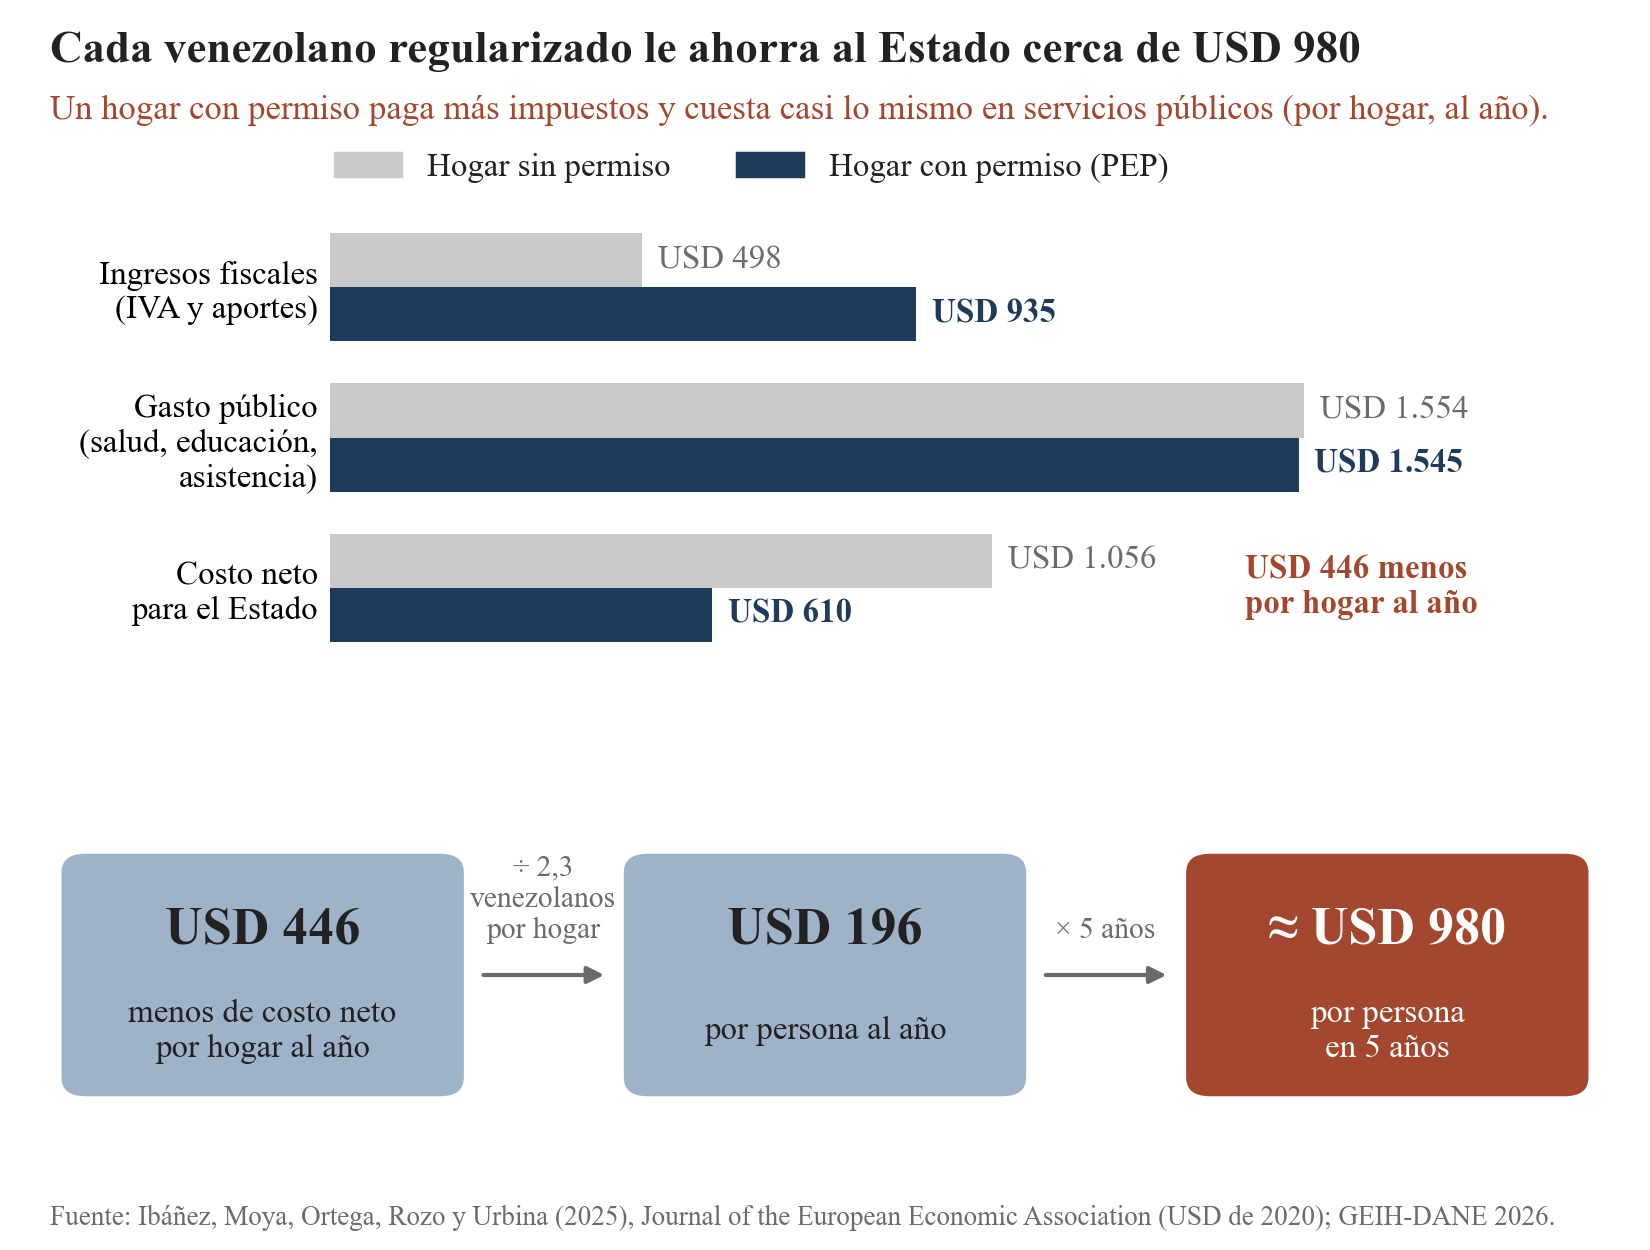
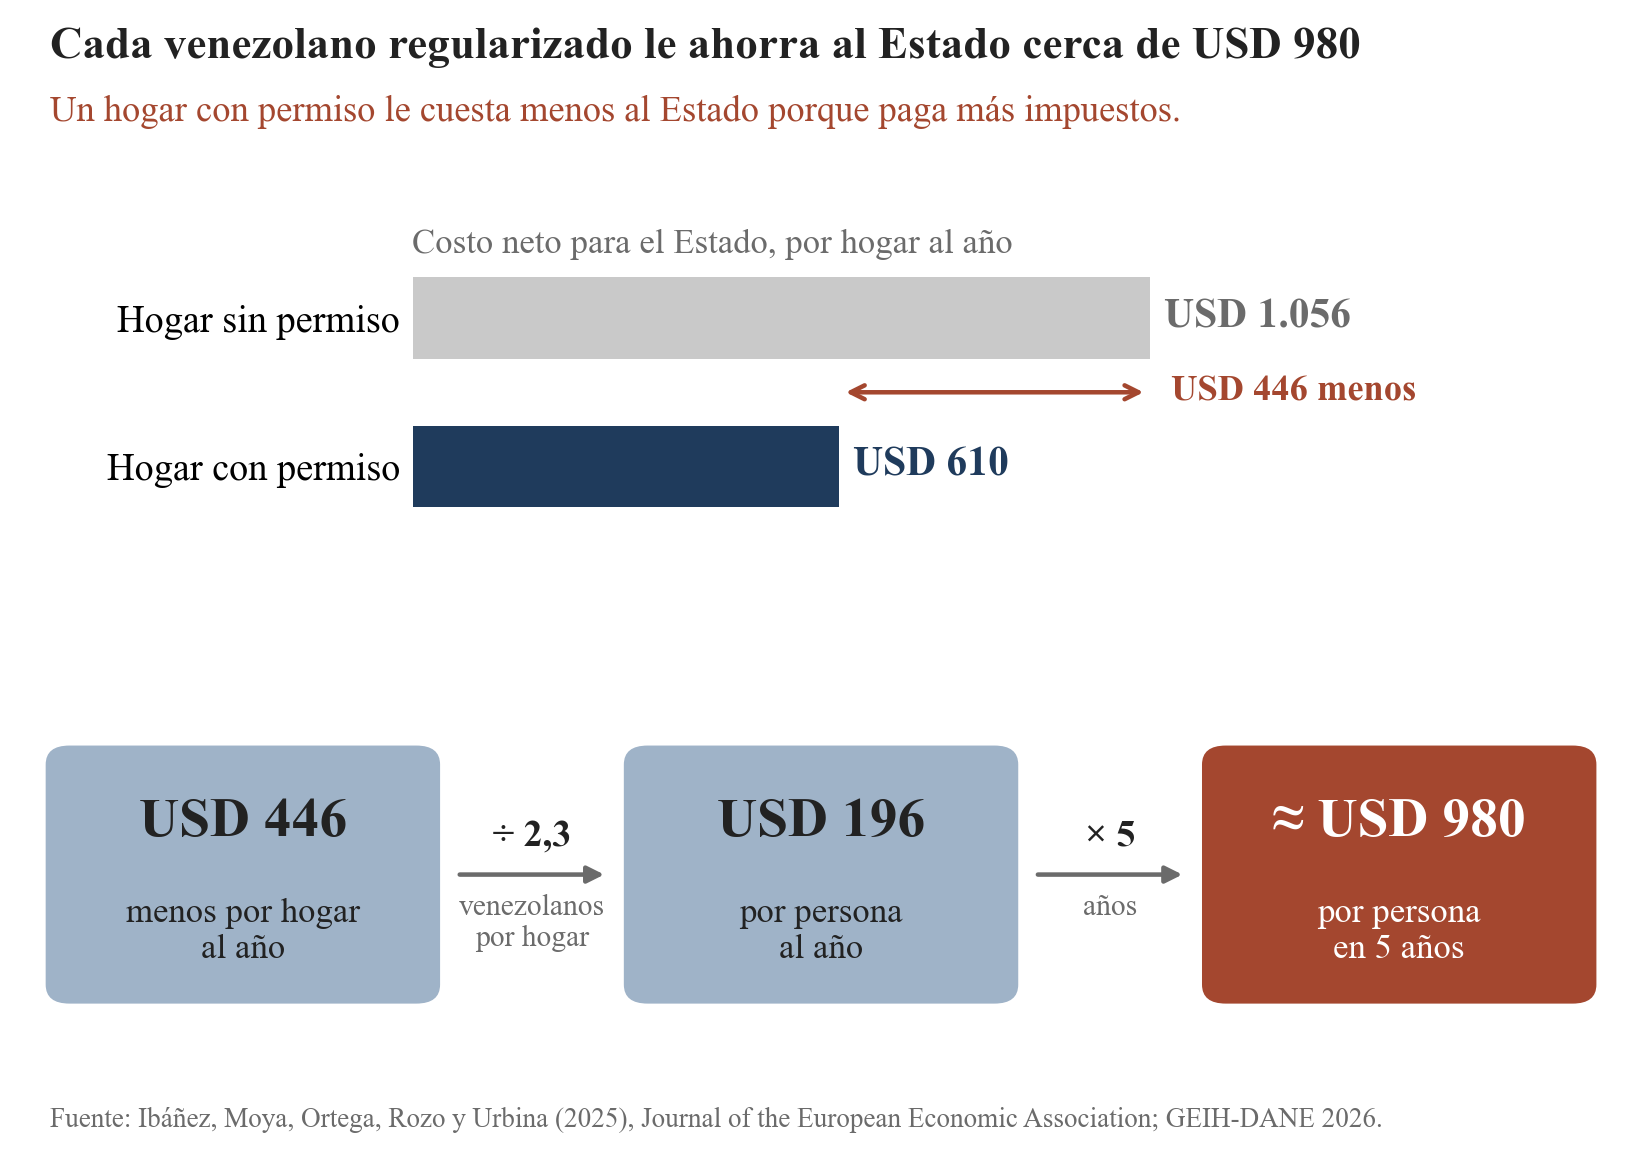
Graficos de beneficio: version simplificada (codigo y figuras)

diff --git a/Code/21_graficos_beneficio.py b/Code/21_graficos_beneficio.py
@@ -1,9 +1,8 @@
-"""Visa-R / 21: beneficio fiscal de mantener la regularidad (de dónde salen los USD 980 por persona) y beneficio total según la tarifa.
+"""Visa-R / 21: beneficio fiscal de mantener la regularidad (de dónde salen los USD 980 por persona) y comparación con la tarifa.
 Fuente del beneficio: Ibáñez, Moya, Ortega, Rozo y Urbina (2025), JEEA 23(3), sección 7 y cuadro 7 (USD de 2020, acceso observado a servicios):
   hogar migrante sin PEP: ingresos fiscales 498, gasto público 1.554, costo neto 1.056; hogar con PEP: ingresos 935, gasto 1.545, costo neto 610.
-Venezolanos por hogar: 2,28 (GEIH 2026). Conversión a la Visa R: modelo ilustrativo de Code/10 (theta = 2): 43,6 % con USD 464 y 85 % con tarifa cero.
-Escala: 1.975.752 PPT autorizados (Migración Colombia, octubre 2026).
-Salidas: Outputs/Figures/pr8a_como_se_calcula_beneficio.png, pr8b_beneficio_total.png"""
+Venezolanos por hogar: 2,28 (GEIH 2026).
+Salidas: Outputs/Figures/pr8a_como_se_calcula_beneficio.png, pr8b_ahorro_vs_tarifa.png"""
 from pathlib import Path
 import numpy as np
 import matplotlib
@@ -19,57 +18,54 @@ plt.rcParams.update({"font.family": "serif", "font.serif": ["Times New Roman", "
                      "axes.edgecolor": "#555555", "axes.linewidth": 0.6, "axes.spines.top": False, "axes.spines.right": False})
 miles = lambda x: f"{x:,.0f}".replace(",", ".")
 
-ING = (498, 935); GAS = (1554, 1545); NETO = (1056, 610)
-AHORRO = NETO[0] - NETO[1]; VEN_HOG = 2.28; ANUAL = AHORRO / VEN_HOG; S5 = ANUAL * 5
-N_PPT = 1_975_752; CONV = {"Tarifa actual" + NL + "(USD 464)": 0.43596, "Tarifa cero": 0.85}
+NETO = (1056, 610); AHORRO = NETO[0] - NETO[1]; VEN_HOG = 2.28; ANUAL = AHORRO / VEN_HOG; S5 = ANUAL * 5; FEE = 464
 
 # =============================================================== propuesta A: de dónde salen los USD 980
-fig = plt.figure(figsize=(6.6, 5.0))
+fig = plt.figure(figsize=(6.6, 4.6))
 fig.text(0.03, 0.95, "Cada venezolano regularizado le ahorra al Estado cerca de USD 980", fontsize=13, fontweight="bold", ha="left")
-fig.text(0.03, 0.905, "Un hogar con permiso paga más impuestos y cuesta casi lo mismo en servicios públicos (por hogar, al año).", fontsize=10, ha="left", color=ACC)
-ax = fig.add_axes([0.2, 0.47, 0.76, 0.36])
-grupos = ["Ingresos fiscales" + NL + "(IVA y aportes)", "Gasto público" + NL + "(salud, educación,\nasistencia)".replace("\n", NL), "Costo neto" + NL + "para el Estado"]
-vals = [ING, GAS, NETO]; y = np.arange(3)[::-1]; h = 0.36
-for yi, (a, b) in zip(y, vals):
-    ax.barh(yi + h / 2, a, h, color=LGRAY); ax.barh(yi - h / 2, b, h, color=NAVY)
-    ax.text(a + 25, yi + h / 2, f"USD {miles(a)}", va="center", fontsize=9.5, color=GRAY)
-    ax.text(b + 25, yi - h / 2, f"USD {miles(b)}", va="center", fontsize=9.5, color=NAVY, fontweight="bold")
-ax.set_yticks(y); ax.set_yticklabels(grupos, fontsize=9.5); ax.tick_params(axis="y", length=0); ax.spines["left"].set_visible(False)
-ax.set_xticks([]); ax.spines["bottom"].set_visible(False); ax.set_xlim(0, 2000)
-ax.legend(handles=[plt.Rectangle((0, 0), 1, 1, color=LGRAY), plt.Rectangle((0, 0), 1, 1, color=NAVY)],
-          labels=["Hogar sin permiso", "Hogar con permiso (PEP)"], loc="lower left", bbox_to_anchor=(-0.02, 1.0), ncol=2, frameon=False, fontsize=9.5)
-ax.text(1460, 0.0, f"USD {AHORRO} menos" + NL + "por hogar al año", fontsize=9.5, color=ACC, va="center", fontweight="bold")
+fig.text(0.03, 0.895, "Un hogar con permiso le cuesta menos al Estado porque paga más impuestos.", fontsize=10.5, ha="left", color=ACC)
+ax = fig.add_axes([0.25, 0.53, 0.72, 0.29])
+y = [1, 0]; cols = [LGRAY, NAVY]; labs = ["Hogar sin permiso", "Hogar con permiso"]
+ax.barh(y, NETO, 0.55, color=cols)
+for yi, v, c in zip(y, NETO, [GRAY, NAVY]):
+    ax.text(v + 20, yi, f"USD {miles(v)}", va="center", fontsize=12, fontweight="bold", color=c)
+ax.set_yticks(y); ax.set_yticklabels(labs, fontsize=11); ax.tick_params(axis="y", length=0); ax.spines["left"].set_visible(False)
+ax.set_xticks([]); ax.spines["bottom"].set_visible(False); ax.set_xlim(0, 1700); ax.set_ylim(-0.5, 1.75)
+ax.text(0, 1.5, "Costo neto para el Estado, por hogar al año", fontsize=10, color=GRAY, va="center")
+ax.annotate("", xy=(NETO[1], 0.5), xytext=(NETO[0], 0.5), arrowprops=dict(arrowstyle="<->", color=ACC, lw=1.3))
+ax.text(NETO[0] + 30, 0.5, f"USD {AHORRO} menos", ha="left", va="center", fontsize=10.5, color=ACC, fontweight="bold")
 
-bx = fig.add_axes([0.02, 0.07, 0.96, 0.3]); bx.axis("off"); bx.set_xlim(0, 10); bx.set_ylim(0, 3)
-pasos = [(f"USD {AHORRO}", "menos de costo neto" + NL + "por hogar al año", LNAVY, INK),
-         (f"USD {ANUAL:.0f}", "por persona al año", LNAVY, INK),
+bx = fig.add_axes([0.02, 0.08, 0.96, 0.33]); bx.axis("off"); bx.set_xlim(0, 10); bx.set_ylim(0, 3)
+pasos = [(f"USD {AHORRO}", "menos por hogar" + NL + "al año", LNAVY, INK),
+         (f"USD {ANUAL:.0f}", "por persona" + NL + "al año", LNAVY, INK),
          (f"≈ USD {round(S5, -1):.0f}", "por persona" + NL + "en 5 años", ACC, "white")]
-ops = [f"÷ {VEN_HOG:.1f}".replace(".", ",") + NL + "venezolanos" + NL + "por hogar", "× 5 años"]
-xs = [0.2, 3.75, 7.3]; w = 2.5
+ops = [("÷ 2,3", "venezolanos" + NL + "por hogar"), ("× 5", "años")]
+xs = [0.1, 3.75, 7.4]; w = 2.45
 for (big, small, fc, tc), x0 in zip(pasos, xs):
-    bx.add_patch(FancyBboxPatch((x0, 0.55), w, 1.9, boxstyle="round,pad=0.02,rounding_size=0.15", fc=fc, ec="none"))
-    bx.text(x0 + w / 2, 1.85, big, ha="center", va="center", fontsize=15, fontweight="bold", color=tc)
-    bx.text(x0 + w / 2, 1.05, small, ha="center", va="center", fontsize=9.5, color=tc)
+    bx.add_patch(FancyBboxPatch((x0, 0.45), w, 2.0, boxstyle="round,pad=0.02,rounding_size=0.15", fc=fc, ec="none"))
+    bx.text(x0 + w / 2, 1.85, big, ha="center", va="center", fontsize=16, fontweight="bold", color=tc)
+    bx.text(x0 + w / 2, 1.0, small, ha="center", va="center", fontsize=10, color=tc)
 for x0, op in zip(xs[:2], ops):
-    bx.annotate("", xy=(x0 + w + 0.95, 1.5), xytext=(x0 + w + 0.1, 1.5), arrowprops=dict(arrowstyle="-|>", color=GRAY, lw=1.2))
-    bx.text(x0 + w + 0.52, 1.75, op, ha="center", va="bottom", fontsize=8.5, color=GRAY)
-fig.text(0.03, 0.02, "Fuente: Ibáñez, Moya, Ortega, Rozo y Urbina (2025), Journal of the European Economic Association (USD de 2020); GEIH-DANE 2026.",
+    bx.annotate("", xy=(x0 + w + 1.1, 1.45), xytext=(x0 + w + 0.1, 1.45), arrowprops=dict(arrowstyle="-|>", color=GRAY, lw=1.3))
+    bx.text(x0 + w + 0.6, 1.62, op[0], ha="center", va="bottom", fontsize=11, color=INK, fontweight="bold")
+    bx.text(x0 + w + 0.6, 1.3, op[1], ha="center", va="top", fontsize=8.5, color=GRAY)
+fig.text(0.03, 0.02, "Fuente: Ibáñez, Moya, Ortega, Rozo y Urbina (2025), Journal of the European Economic Association; GEIH-DANE 2026.",
          fontsize=7.8, color=GRAY, ha="left")
 fig.savefig(FIG / "pr8a_como_se_calcula_beneficio.png", dpi=250, facecolor="white"); plt.close(fig)
 
-# =============================================================== propuesta B: beneficio total según la tarifa
-fig, ax = plt.subplots(figsize=(6.4, 3.9)); fig.subplots_adjust(left=0.05, right=0.95, top=0.78, bottom=0.2)
-labs = list(CONV); per = np.array([CONV[k] * N_PPT for k in labs]); ben = per * S5 / 1e6
-x = np.arange(2)
-ax.bar(x, ben, 0.5, color=[LNAVY, ACC])
-for xi, b, p in zip(x, ben, per):
-    ax.text(xi, b + 30, f"USD {miles(b)} millones", ha="center", va="bottom", fontsize=13, fontweight="bold", color=ACC if xi == 1 else INK)
-    ax.text(xi, b / 2, (f"{p / 1e6:.2f}".replace(".", ",") + " millones" + NL + "de personas pasan" if p >= 1e6 else f"{miles(p / 1e3)} mil" + NL + "personas pasan") + NL + "a la Visa R", ha="center", va="center", fontsize=10, color="white" if xi == 1 else INK)
-ax.set_xticks(x); ax.set_xticklabels(labs, fontsize=11); ax.set_yticks([]); ax.spines["left"].set_visible(False)
-ax.set_ylim(0, 1950); ax.set_xlim(-0.6, 1.6)
-fig.text(0.03, 0.94, "Con tarifa cero, el beneficio fiscal casi se duplica", fontsize=13, fontweight="bold", ha="left")
-fig.text(0.03, 0.875, "Ahorro fiscal en 5 años de las personas con PPT que pasan a la Visa R (USD 980 por persona).", fontsize=10.5, ha="left", color=ACC)
-fig.text(0.03, 0.03, "Fuente: Ibáñez et al. (2025), JEEA; GEIH-DANE 2026; EPM VIII-2025 (DANE); Migración Colombia (PPT autorizados, octubre de 2026).",
+# =============================================================== propuesta B: el ahorro acumulado supera la tarifa
+anios = np.arange(1, 6); acum = ANUAL * anios
+fig, ax = plt.subplots(figsize=(6.4, 3.9)); fig.subplots_adjust(left=0.05, right=0.97, top=0.78, bottom=0.17)
+ax.bar(anios, acum, 0.6, color=[LNAVY if a < FEE else ACC for a in acum])
+for x_, a in zip(anios, acum):
+    ax.text(x_, a - 25, f"USD {miles(a)}", ha="center", va="top", fontsize=11.5, fontweight="bold", color="white" if a >= FEE else INK)
+ax.axhline(FEE, color=INK, lw=1.2, ls="--")
+ax.text(0.5, FEE + 18, f"Tarifa de la Visa R: USD {FEE}", fontsize=10.5, color=INK, ha="left", va="bottom")
+ax.set_xticks(anios); ax.set_xticklabels([f"Año {a}" for a in anios], fontsize=11); ax.set_yticks([]); ax.spines["left"].set_visible(False)
+ax.set_ylim(0, 1100); ax.set_xlim(0.4, 5.6)
+fig.text(0.03, 0.94, "En menos de 3 años, el ahorro supera el valor de la tarifa", fontsize=13, fontweight="bold", ha="left")
+fig.text(0.03, 0.875, "Ahorro fiscal acumulado por cada venezolano que se mantiene en situación regular.", fontsize=10.5, ha="left", color=ACC)
+fig.text(0.03, 0.03, "Fuente: Ibáñez, Moya, Ortega, Rozo y Urbina (2025), Journal of the European Economic Association; GEIH-DANE 2026; Cancillería.",
          fontsize=7.8, color=GRAY, ha="left")
-fig.savefig(FIG / "pr8b_beneficio_total.png", dpi=250, facecolor="white"); plt.close(fig)
-print("ahorro hogar", AHORRO, "anual persona", round(ANUAL, 1), "5 anios", round(S5, 1), "| personas", per.round(), "beneficio M", ben.round())
+fig.savefig(FIG / "pr8b_ahorro_vs_tarifa.png", dpi=250, facecolor="white"); plt.close(fig)
+print("anual", round(ANUAL, 1), "acumulado", acum.round(), "cruce en anio", round(FEE / ANUAL, 2))
